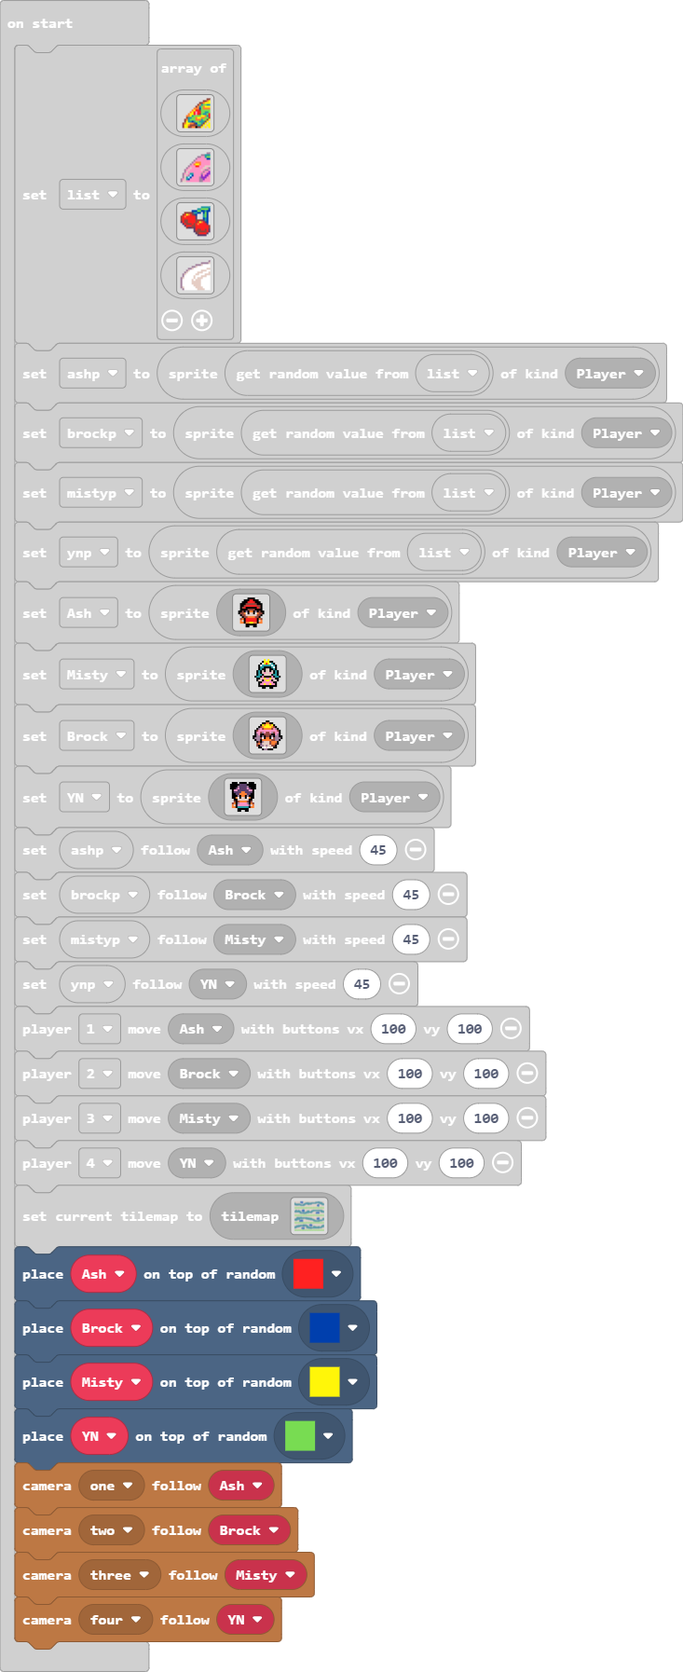
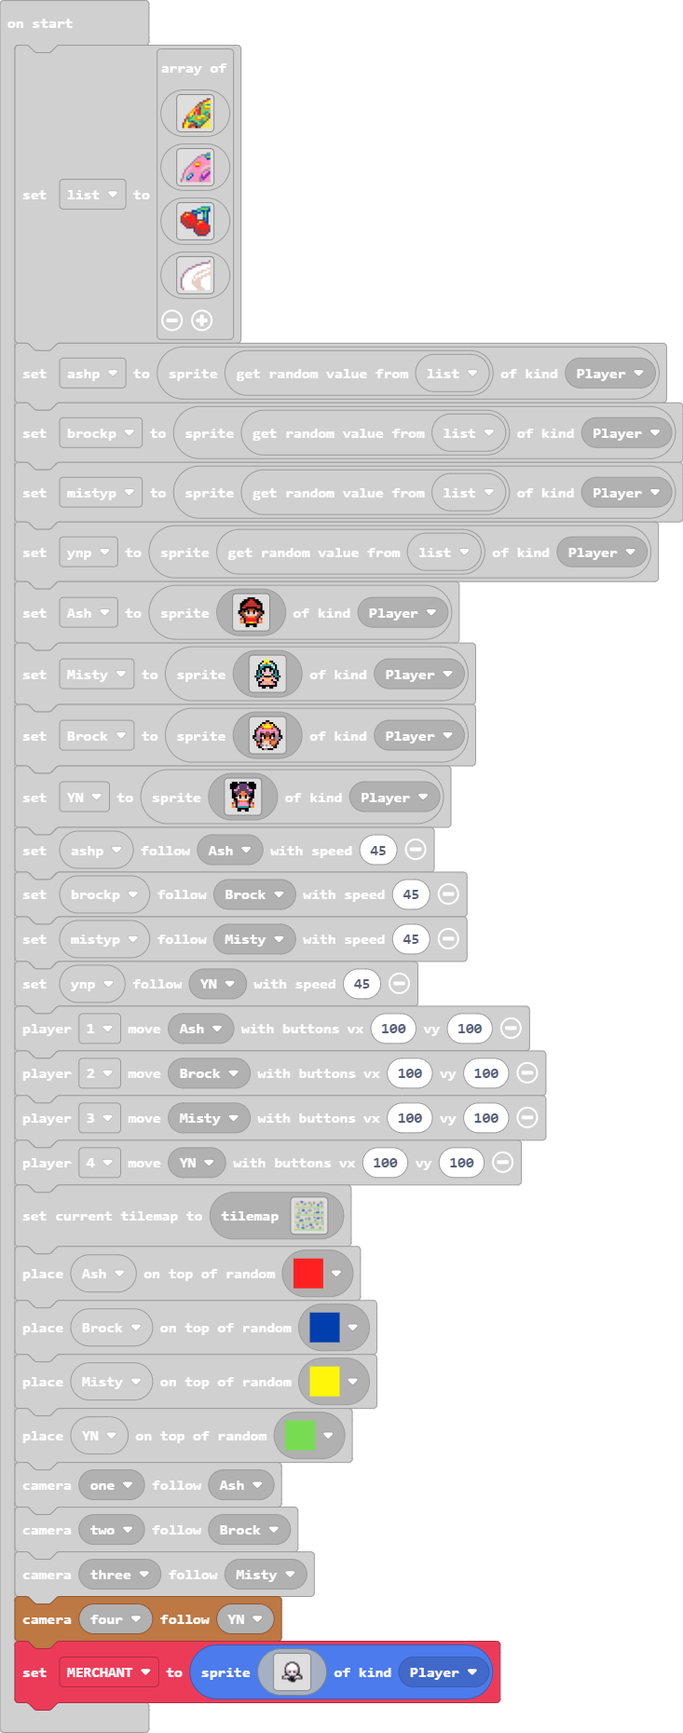
Update main.blocks, main.ts, tilemap.g.jres, tilemap.g.ts

Changed region(s): [[0.0, 0.0312, 1.0, 0.9989], [0.09, 0.0936, 0.1801, 0.1249], [0.03, 0.0936, 0.06, 0.1249]]

diff --git a/tilemap.g.ts b/tilemap.g.ts
@@ -14,6 +14,12 @@ namespace myTiles {
     export const tile5 = image.ofBuffer(hex``);
     //% fixedInstance jres blockIdentity=images._tile
     export const tile6 = image.ofBuffer(hex``);
+    //% fixedInstance jres blockIdentity=images._tile
+    export const tile7 = image.ofBuffer(hex``);
+    //% fixedInstance jres blockIdentity=images._tile
+    export const tile8 = image.ofBuffer(hex``);
+    //% fixedInstance jres blockIdentity=images._tile
+    export const tile9 = image.ofBuffer(hex``);
 
     helpers._registerFactory("tilemap", function(name: string) {
         switch(helpers.stringTrim(name)) {
@@ -264,8 +270,46 @@ namespace myTiles {
 . . . . . . . . . . . . . . . . 
 . . . . . . . . . . . . . . . . 
 `, [myTiles.transparency16], TileScale.Sixteen);
+            case "level15":
+            case "level15":return tiles.createTilemap(hex`1000100000000000000000000000000000000000000000000000000000000000000000000000000000000000000000000000000000000000000000000000000000000000000000000000000000000000000000000000000000000000000000000000000000000000000000000000000000000000000000000000000000000000000000000000000000000000000000000000000000000000000000000000000000000000000000000000000000000000000000000000000000000000000000000000000000000000000000000000000000000000000000000000000000000000000000000000000000000000000000000000000000000000000000000000000000000000`, img`
+. . . . . . . . . . . . . . . . 
+. . . . . . . . . . . . . . . . 
+. . . . . . . . . . . . . . . . 
+. . . . . . . . . . . . . . . . 
+. . . . . . . . . . . . . . . . 
+. . . . . . . . . . . . . . . . 
+. . . . . . . . . . . . . . . . 
+. . . . . . . . . . . . . . . . 
+. . . . . . . . . . . . . . . . 
+. . . . . . . . . . . . . . . . 
+. . . . . . . . . . . . . . . . 
+. . . . . . . . . . . . . . . . 
+. . . . . . . . . . . . . . . . 
+. . . . . . . . . . . . . . . . 
+. . . . . . . . . . . . . . . . 
+. . . . . . . . . . . . . . . . 
+`, [myTiles.transparency16], TileScale.Sixteen);
+            case "level":
+            case "level16":return tiles.createTilemap(hex`1000100000000000000000000000000000000000000000000000000000000000000000000000000000000000000000000000000000000000000000000000000000000000000000000000000000000000000000000000000000000000000000000000000000000000000000000000000000000000000000000000000000000000000000000000000000000000000000000000000000000000000000000000000000000000000000000000000000000000000000000000000000000000000000000000000000000000000000000000000000000000000000000000000000000000000000000000000000000000000000000000000000000000000000000000000000000000`, img`
+. . . . . . . . . . . . . . . . 
+. . . . . . . . . . . . . . . . 
+. . . . . . . . . . . . . . . . 
+. . . . . . . . . . . . . . . . 
+. . . . . . . . . . . . . . . . 
+. . . . . . . . . . . . . . . . 
+. . . . . . . . . . . . . . . . 
+. . . . . . . . . . . . . . . . 
+. . . . . . . . . . . . . . . . 
+. . . . . . . . . . . . . . . . 
+. . . . . . . . . . . . . . . . 
+. . . . . . . . . . . . . . . . 
+. . . . . . . . . . . . . . . . 
+. . . . . . . . . . . . . . . . 
+. . . . . . . . . . . . . . . . 
+. . . . . . . . . . . . . . . . 
+`, [myTiles.transparency16], TileScale.Sixteen);
             case "level1":
-            case "level1":return tiles.createTilemap(hex`6400640001010101010101010101010101010101010101010101010101010101010101010101010101010101010101010101010101010101010101010101010101010101010101010101010101010101010101010101010101010101010101010101010101010101010101010101010101010101010101010101010104040404040404040404010101010101010101010101010101010101010101010101010101010101010101010101010101010101010101010101050505050505050101010101010101010101010101010101010101010101010101010101010101010101040404040404040404040101010101010101010101010101010101010101010101010101010101010101010101010101010101050505050505050505050505050505050501010101010101010101010101010101010101010101010101010101010101010404040404040404040401010101010101010101010101010101010101010101010101010101010101010101010101010101050505050505050505050505050505050505050505050505010101010101010101010101010101010101010101010101010104040404040404040404010101010101010101010505050505050505050101010101010101050505050505050505050505050505050505050505050505050505050505050505050505050501010101010505050505010101010101010101010101010101040404040404040404040101010101010105050505050505050505050505050505050505050505050505050505050505050505050505050505050505050505050505050505050505050505010101010105050505050101010101010101010101010101010101010104040404040101010101010505050505050505050505050505050505050505050505050505050505050505050505050505050505050505050505050505050505050505050505050501010101050505050501010101010101010101010101010101010101040404040401010101010505050505050505050505050505050505050505050505050505050505050505050505050505050505010101010101010105050505050505050505050505050505010505050505010505050505050505050505050501010101010101010101010101050505050505050505050505050505050505050505050505050505050505050505050505050505050505010101010101010101010505050505050505050505050505050505050505050505050505050505050505050505050505010101010101010105050505050505050505050505050505050505050505050505050505050505010101010101010101010101010101010101010101010101050505050505050505050505050505060505050505050505050505050505050505050505050505010101010101050505050505050505050505050505050505050505050505050505050501010101010101010101010101010101010101010404040404010101010505050505050505050505050505050505050505050505050505050505050505050505050505050505050505050505050505050101010105050505050505050505050505050501010101010101010101010101010101010101010104040404040101010101010101050505050505050505050505050505050505050505050505050505050505050505050505050505050505050505050101010101010105050505050501010101010101010101010101010101010101010101010101040404040404040401010101010101010505050505050505050505050505050505050505050505050505050505050505050505050505050505050505050101010101010101010101010101010101010101010101010101010101010101010101010101010404040404040404010101010101010101050505050505050101010101010505050505050505050101010505050505050505050505050505050505010101010101010101010101010101010101010101010101010101010101010101010101010101010104040404040404040101010101010101010101010101010101010101010101010101010101010101010101010505050505050505050505050505010101010101010101010101010101010101010101010101010101010101010101010101010101010101040404040404040401010101010101010101010101010101010101010101010101010101010101010101010101010101010101010101010101010101010101010101010101010101010101010101010101010101010101010101010101010101010101010404040404040404010101010101010101010101010101010101010101010101010101010101010101010101010101010101010101010101010101010101010101010101010101010101010101010101010101010101010101010101010101010101010101010104040404040101010101010101010101010101010101010101010101010101010101010101010101010101010101010101010101010101010101010101010101010101010101010101010101010101010101010101010101010101010101010101010101010101010101010101010101010101010101010101010101010102020202020202020202020202020101010101010101010101010101010101010101010101010101010101010101010101010101010101010101010101010101010101010101010101010101010101010101010101010101010101010101010303030303030303030303030303030303030303030303030303030303030303030303030303030303030303030303030303030303030303030303030303030303030303030303030303030303030303030303030303030303030303030303030303030303030303030303030303030303030303030303030303030303030303030303030303030303030303030303030303030303030303030303030303030303030303030303030303030303030303030303030303030303030303030303030303030303030303030303030303030303030303030303030303030303030303030303030303030303030303030303030303030303030303030303030303030303030303030303030303030303030303030303030303030303030303030303030303030303030303030303030303030303030303030303030303030303030303030303030303030303030303030303030303030303030303030303030303030303030303030303030303030303030303030303030303030303030303030303030303030303030303030303030303030303030303030303030303030303030303030303030303030303030303030303030303030303030303030303030303030303030303030303030303030303030303030303030303030303030303030303030303030303030303030303030303030303030303010101010101010101010101010101010101010101010101010101010101010101010101010101010101010101010101010101010101010101010101010101010101010101010101010101010101010101010101010101010101010101010101010101010101010101010101010101010101010101010101010101010101010101010101010101010101010101010101010101010101010101010101010101010101010101010101010101010101010101010101010101010101010101010101010101010101010101010101010101010101010101010101010101010101010101010101010101010101010101010101010101010101010101010101010101010101010101010101010101010101010101010101010101010101010101010101010101010101010101010101010101010101010101010101010101010101010101010101010101010404040404040101010101010101010101010101010101010101010101010101010101010101010101010101010101010101010101010101010101010101010101010101010101010101010105050505050101010101010101010101010101010101040404040404040401010101010101010101010101010101010101010101010101010101010505050505050505050505050505050505050505050505050505050505050501010101010101010101050505050501010105050505050101010101010101040404040404040404040101010101010101010101010101010101010101010101010505050505050505050505050505050505050505050505050505050505050505050505010101010101010101010505050505010105050505050505050501010101010404040404040404040401010101010101010505050505050505010101010101010505050505050505050505050505050505050505050505050505050505050505050505050505050101010505050505050505050505050505050505050505050101010104040404040404040404010101010101010105050505050505050101010101010505050505050505050505050505050505050505050505050505050505050505050505050505050505050105050505050505050505050505050505050505050505010101040404040404040404040101010101010105050505050505050501010101010505050505050505050505050505050505050505050505050505050505050505050505050505050505050505050505050505050505050505050505050505050505050101010404040404040404040401010101010101050505050505050505050505050505050505050505050505050101010101010101010101010101010101010101010505050505050505050505050705050505050505050505050505050505050505050505010101010104040404040401010101050505050505050505050505050505050505050505050505050101010101010101010101010101010101010101010101010105050505050505050505050505050505050505050505050505050505050505050505050501010101010101010101010101050505050505050505050505050505050505050505050505050101010101010101010101010104040404040404040404010101050505050505050505050505010505050505050505050505050505050505050505050505050505050505050505050505050505050505050505050505050505050505050505050505050101010101010101010101040404040404040404040404040101010105050505050505050505050101010101010101010101010101010101050505050505050505050505050505050505050505050505050505050505050505050505050505050505050501010101010101010101010404040404040404040404040401010101010101010105050505050501010101010101010101010101010101010105050505050505050505050505050505050505050505050505050505050505050501050505050505050505010101010101010101010104040404040404040404040404010101010101010101010101010101010101010101010101010101010101010101050505050505050505050505050505050505050505050505050505050505010101010101010101010101010101010101010101010101040404040404040404040404040101010101010101010101010101010101010101010101010101010101010101010101050505050505050505050505050505050505050505050101010101010101010101010101010101010101010101010101010101010404040404040404040404040101010101010101010101010101010101010101010101010101010101010101010101010101010101010101010101050505050505050505010101010101010101010101010101010101010101010101010101010101010101010101010101010101010101010101010101010101010101010101010101010101010101010101010101010101010101010101010101010101010101010101010101010101010101010101010101010101010101010101010101010101010101010101010101010101010101010101010101010101010101010101010101010101010101010101010101010101010101010101010101010101010101010101010101010101010101010101010101010101010101010101010101010101010101010101010101010101010101010101010101010101010101010101010101010101010103030303030303030303030303030303030303030303030303030303030303030303030303030303030303030303030303030303030303030303030303030303030303030303030303030303030303030303030303030303030303030303030303030303030303030303030303030303030303030303030303030303030303030303030303030303030303030303030303030303030303030303030303030303030303030303030303030303030303030303030303030303030303030303030303030303030303030303030303030303030303030303030303030303030303030303030303030303030303030303030303030303030303030303030303030303030303030303030303030303030303030303030303030303030303030303030303030303030303030303030303030303030303030303030303030303030303030303030303030303030303030303030303030303030303030303030303030303030303030303030303030303030303030303030303030303030303030303030303030303030303030303030303030303030303030303030303030303030303030303030303030303030303030303030303030303030303030303030303030303030303030303030303030303030303030303030303030303030303030303030303030303030303030303030303030303030303030101010101010101010101010101010101010101010101010101010101010101010101010101010101010101010101010101010101010101010101010101010101010101010101010101010101010101010101010101010101010101010101010101010101010101010101010101010101010101010101010101010101010101010101010101010101010101010101010101010101010101010101010101010101010101010101010101010101010101010101010101010101010101010101010101010101010101010101010101010101010101010101010101010101010101010101010101010101010101010101010101010101010101010101010101010101010101010101010101010101010101010101010101010101010101010101010101010101010101010101010101010101010101010505050505050101010505050505050505010101010101010101010101010101010101010101010101010101010101010101010101010101010101010101010101010101010101010101010101010101010101010101010101010101010101010101010505050505050505050505050505050505050505050505050505050505050505050505050501010101010101010101010101010101010101010101010101010101010101010101010101010101010101010101010101010101010101010101010101010105050505050505050505050505050505050505050505050505050505050505050505050505050505050505050101010101010101010101010101010101010101010101010101040404040404040101010101010101010101010101010101010101010105050505050505050505050505050505050505050505050505050505050505050505050505050505050505050505050505050505010101010101010101010101010101010404040404040404040401010101010101010101010505050501010101010105050505050505050505050505050505050505050505050505050505050505050505050505050505050505050505050505050505050101010101010101010101010101010104040404040404040404010101010101010101010505050505010101050505050505050505050505050505050505050505050505050505050505050505050505050505050505050505050505050505050505050505050501010101010101010101010101040404040404040404040101010101010101010505050505050505050505050505050505050505050505050505010505050505050505050505010101050505050505050505050505050505050505050505050505050505050505010101010101010101010404040404040404040401010101010101010105050505050505050505050505050505050505050505050505050101010101010101010101010101010101010101050505050505050505050505050505050505050505050505050505050101010101010104040404040404040404010101010101010101050505050505080505050505050505050505050505050505050501010101010101010101010101010101010101010505050505050505050505050505050505050505050505050505050501010101010101040404040404040401010101010101010101010505050505050505050505050505050505050505050505050505010104040404040401010101010101010101010101010101010101050505050505050505050505050505050505050505050501010101010101010101010101010505050505050505050505050505050505050505050505050505050505010101010101010404040404040404040401010101010101010101010101010101010101010101010505050505050505050505050505050505050505010101010101010505050505050505050505050505050505050505050505050505050505050101010101010104040404040404040404040404010101010101010101010101010101010101010101010101010101010101050505050505050505050505050505050505050505050505050505050505050505050505050505050101050505050505050501010101010101040404040404040404040404040101010101010101010101010101010101010101010101010101010101010101010505050505050505050505050505050505050505050505050505050505050505010101010101010101010101010101010101010101010404040404040404040404040401010101010101010101010101010101010101010101010101010101010101010105050505050505050505050505050505050505050505050505050505050505050101010101010101010101010101010101010101010104040404040404040404040404010101010101010101010101010101010101010101010101010101010101010101010105050505050505050505050505050505050505050505050501010101010101010101010101010101010101010101010101010101040404040404040404040404040101010101010101010101010101010101010101010101010101010101010101010101010101050505050505050505050505050505050501010101010101010101010101010101010101010101010101010101010101010101010101010101010101010101010101010101010101010101010101010101010101010101010101010101010101010101010101010101010101010101010101010101010101010101010101010101010101030303030303030303030303030303030303030303030303030303030303030303030303030303030303030303030303030303030303030303030303030303030303030303030303030303030303030303030303030303030303030303030303030303030303030303030303030303030303030303030303030303030303030303030303030303030303030303030303030303030303030303030303030303030303030303030303030303030303030303030303030303030303030303030303030303030303030303030303030303030303030303030303030303030303030303030303030303030303030303030303030303030303030303030303030303030303030303030303030303030303030303030303030303030303030303030303030303030303030303030303030303030303030303030303030303030303030303030303030303030303030303030303030303030303030303030303030303030303030303030303030303030303030303030303030303030303030303030303030303030303030303030303030303030303030303030303030303030303030303030303030303030303030303030303030303030303030303030303030303030303030303030303030303030303030303030303030303030303030303030303030303030303030303030303030303030303030301010101010101010101010101010101010101010101010101010101010101010101010101010101010101010101010101010101010101010101010101010101010101010101010101010101010101010101010101010101010101010101010101010101010101010101010101010101010101010101010101010101010101010101010101010101010101010101010101010101010101010101010101010101010101010101010101010101010101010101010101010101010101010101010101010101010101010101010101010101010101010101010101010101010101010101010101010101010101010101010101010101010101010101010101040404040401010101010101010101010101010101010101010101010101010101010101010101010101010101010101010101010101010101010101010101010101010101010101010101010505050505050505050505010101010101010101010404040404040404040404010101010101010101010101010101010101010101010101010101010101010101010101010101010101010101010101010101010101010101010105050505050505050505050505050505050505050505050101010101010104040404040404040404040101010101010101010101010101010101010101010101010101010101010101010105050505050101010101010101010101010105050505050505050505050505050505050505050505050505050505050505010101010101040404040404040404040401010101010101010101010101010101010101010101010101010101010101010105050505050501010101010101050505050505050505050505050505050505050505050505050505050505050505050505050505010101010404040404040404040404010101010101010101010101010101010101010101010101010101010101010505050505050505010101010101050505050505050505050505050505050505050505050505050505050505050505050505050505050101010104040404040404040404040101010101010101010101010101010101010101010101010101010101010505050505050505050101010101010505050505050505050505050505050505050505050505050505050505050505050505050505050505010101010101040404040404040401010105050505050101010101010101010101010101010101010101010105050505050505050505050505050505050505050505050505050505050505050505010105050505050505050505050105050505050505050505010101010101010101010101010105050505050505050505010101010101010505050505010101010101050505050505050505050505050505050505050505050505050505050505050101010101050505050505050505010101010505050505050505050505050501010101010101010101050505050505050505050505050505050505050505050101010505050505050505050505050505050505050505050505050505050505050505010101010101010101010101010101010101010105050505050505050505050505050505050505010101010505050505050505050505050505050505050505050505050505050505050505050505050509050505050505050505050505050505050101010101010101010101010101010101010101010101050505050505050505050505050505050505050505050505050505050505050505050505050505050505050505050505050505050505050505050505050505050505050505050501010101010101010101010101040404040404040404040401010101010505050505050505050505050505050505050505050505050505050505050505050505050505050505050505050505050505050505050501010101010505050505050505050501010101010101010101010101010404040404040404040404010101010105050505050505050505050505050505050505050505050505050505050505050505050505050505050505050505050505050505050501010101010105050505050101010101010101010101010101010101010104040404040404040404040101010101050505050505050505050505050505050505050505050505050505050505050505050505050505050505050505050505050505050101010101010101050505050501010101010101010101010101010101010101040404040404040404040401010101010101010105050505050505050505050505050505050505050505050505050505050505050505050505050505050101010101010101010101010101010101010101010101010101010101010101010101010101010404040404040404040404010101010101010101010101010105050505050505050505010101010101010101010101010101010101010101010101010101010101010101010101010101010101010101010101010101010101010101010101010101010101010104040404040404010101010101010101010101010101010101010101010101010101010101010101010101010101010101010101010101010101010101010101010101010101010101010101010101010101010101010101010101010101010101010101010101010101010101010101010101010101010101010101010101010101010101010101010101010101010101010101010101010101010101010101010101010101010101010101010303030303030303030303030303030303030303030303030303030303030303030303030303030303030303030303030303030303030303030303030303030303030303030303030303030303030303030303030303030303030303030303030303030303030303030303030303030303030303030303030303030303030303030303030303030303030303030303030303030303030303030303030303030303030303030303030303030303030303030303030303030303030303030303030303030303030303030303030303030303030303030303030303030303030303030303030303030303030303030303030303030303030303030303030303030303030303030303030303030303030303030303030303030303030303030303030303030303030303030303030303030303030303030303030303030303030303030303030303030303030303030303030303030303030303030303030303030303030303030303030303030303030303030303030303030303030303030303030303030303030303030303030303030303030303030303030303030303030303030303030303030303030303030303030303030303030303030303030303030303030303030303030303030303030303030303030303030303030303030303030303030303030303030303030303030303030303`, img`
+            case "level1":return tiles.createTilemap(hex`6400640001010101010101010101010101010101010101010101010101010101010101010101010101010101010101010101010101010101010101010101010101010101010101010101010101010101010101010101010101010101010101010101010101010101010101010101010101010101010101010101010104040404040404040404010101010101010101010101010101010101010101010101010101010101010101010101010101010101010101010101010101010101010101010101010101010101010101010101010101010101010101010101010101010101040404040404040404040101010101010101010101010101010101010101010101010101010101010101010101010101010101010101010101010101010101010101090909090909010101010101010101010101010101010101010101010101010101010404040404040404040401010101010101010101010101010101010101010101010101010101010101010101090909090901010101010101010101010101010101010909090909090909090101010101010101010101010101010101010101010101010104040404040404040404010101010101010101010101010101010101010909090909090101010101010101090909090909010101010101010101010101010101010109090909090909090909010101010101010101010101010101010101010101010101040404040404040404040101010101010101010101010101010101090909090909090901010101010101010909090909090901010101010101010101010101010101090909090909090909090101010101010101010101010101010101010101010101010101010104040404040101010101010101010101010101010101010909090909090909090101010101010109090909090909010101010101010101010101010101010909090909090909090901010101010101010101010101010101010101010101010101010101040404040401010101010101090909090901010101010109090909090909090901010101010101090909090909090101010101010101010101010101010109090909090909090909010101010101010101010109090909090101010101010101010101010101010101010101010909090909090909010101010101090909090909090909010101010101010909090909090901010101010101010101010101010101090909090909090909090101010101010101010101090909090901010101010101010101010101010101010101010109090909090909090101010101010909090909090909090101010101010109090909090909010101010101010101010101010101010109090909090909090901010101050101010101010909090909090909090101010101010101010101010101010909090909090909090901010101010101090909090909090901010101010101090909090909090101010101010101010404040404010101090909090901010101010101010101010101010109090909090909090901010101010101010101010101010109090909090909090909010101010101010101010101010101010101010101010909090909090101010101010101010104040404040101010101010101010101010101010101010101010101090909090909090909010101010101010101010101010101090909090909090909010101010101010101010101010101090909090901010101010101010101010101010101040404040404040401010101010101010101010101010101010101010101010101010109090909090101010101010101010101010101010909090909090909090101010101010101010101010101010909090909090101010101010101010101010101010404040404040404010101010101010101010101010101010101010101010101010101090909090901010101010101010101010101010109090909090909090901010101010101010101010101010109090909090901010101010101010101010101010104040404040404040101010101010909090909090101010101010101010101010101010101010101010101010101010101010101010101010101010101010101010101010101010101010101010101090909090909010101010101010101010101010101040404040404040401010101010109090909090901010101010101010101010101010101010101010101010101010101010101010101010101010101010101010101010101010101010101010101010909090909090101010101010101010101010101010404040404040404010101010101090909090909010101010101010101010101010101010101010101010101010101010101010101010101010101010101010101010101010101010101010101010109090909090901010101010101010101010101010101010104040404040101010101010909090909090101010101010101010101010101010101010101010101010101010101010101010101010101010101010101010101010101010101010101010101010101010101010101010101010101010101010101010101010101010101010101010109090909090901010101010101010102020202020202020202020202020101010101010101010101010101010101010101010101010101010101010101010101010101010101010101010101010101010101010101010101010101010101010101010101010101010101010101010303030303030303030303030303030303030303030303030303030303030303030303030303030303030303030303030303030303030303030303030303030303030303030303030303030303030303030303030303030303030303030303030303030303030303030303030303030303030303030303030303030303030303030303030303030303030303030303030303030303030303030303030303030303030303030303030303030303030303030303030303030303030303030303030303030303030303030303030303030303030303030303030303030303030303030303030303030303030303030303030303030303030303030303030303030303030303030303030303030303030303030303030303030303030303030303030303030303030303030303030303030303030303030303030303030303030303030303030303030303030303030303030303030303030303030303030303030303030303030303030303030303030303030303030303030303030303030303030303030303030303030303030303030303030303030303030303030303030303030303030303030303030303030303030303030303030303030303030303030303030303030303030303030303030303030303030303030303030303030303030303030303030303030303030303030303030303010101010101010101010101010101010101010101010101010101010101010101010101010101010101010101010101010101010101010101010101010101010101010101010101010101010101010101010101010101010101010101010101010101010101010101010101010101010101010101010101010101010101010101010101010101010101010101010101010101010101010101010101010101010101010101010109090909090101010101010101010101010101010101010101010101010101010101010101010101010101010101010101010101010101010101010101010101010101010101010101010101010101010101010101010101010101010101010101010101090909090901010101010109090909090101010101010101010101010101010101010101010101010101010101010109090909090101010101010101010404040404040101010101010101010101010101010109090909090101010101010101010101010909090909010101010101090909090901010101010101010101010101010101010101010101010101010101010101090909090901010101010101040404040404040401010101010101010101010101010101090909090901010101010101010101010109090909090101010101010909090909010101010101010101010101010101010101010101010101010101010101010909090909010101010101040404040404040404040101010101010101010101090909090909090909090909090101010101010101090909090901010101010109090909090101010101010101010101010101010101010101010101010101010101010109090909090101010101010404040404040404040401010101010101010101010909090909090909090909090901010101010101010101010101010101010101090909090901010101010101010101010101010101010101010101010101010101010101090909090901010101010104040404040404040404010101010101010101010109090909090909090909090909010101010101010101010101010101010101010101010101010101010101010101010101010101010101010101010101010101010101010101010101010101010101040404040404040404040101010101010101010101090909090909090909090909090101010101010101010101010101010101010101010101010101010101010101010101010101010101010101010101010101010101010101010101010101010101010404040404040404040401010101010101010101010909090909090909090909090901010101010101010101010101010101010101010101010101010101010101010101010101010101010601010101010101010101010101010101010101010101010101010104040404040401010101010101010101010101010101090909090901010101010101010101010101010101010101010101010101010101010101010101010101010101010101010101010101010101010101010101010101010101010101010101010101010101010101010101010909090909010101010101010909090909010101010101010101010101010101010101010104040404040404040404010101010101090909090901010101010101010101010101010101010101010101010101010101010101010101010101010101010109090909090101010101010101010101010101010101010101010101010101010101040404040404040404040404040101010101010909090909090901010101010101010101010101090909090909090909090901010101010101010101010101090909090909090909090901010101010101010101010101010101010101090909090901010404040404040404040404040401010101090909090909090909010101010101010101010101010909090909090909090909010101010101010101010101010909090909090909090909010101010101010101010101010101010101010909090909010104040404040404040404040404010101010909090909090909090101010101010101010101010109090909090909090909090101010101010101010101010109090909090909090909090101010101010101010101010101010101010109090909090101040404040404040404040404040101010109090909090909090901010101010101010101010101090909090909090909090901010101010101010101010101090909090909090909090901010101010101010101010101010101010101090909090901010404040404040404040404040101010101090909090909090909010101010101010101010101010909090909090909090909010101010101010101010101010909090909090909090909010101010101010101010101010101010101010909090909010101010101010101010101010101010101010909090909090901010101010101010101010101010101010101010101010101010101010101010101010101010101010101010101010101010101010101010101010101010101010101010101010101010101010101010101010101010101010101010101010101010101010101010101010101010101010101010101010101010101010101010101010101010101010101010101010101010101010101010101010101010101010101010101010101010101010101010101010101010101010101010101010101010101010101010101010103030303030303030303030303030303030303030303030303030303030303030303030303030303030303030303030303030303030303030303030303030303030303030303030303030303030303030303030303030303030303030303030303030303030303030303030303030303030303030303030303030303030303030303030303030303030303030303030303030303030303030303030303030303030303030303030303030303030303030303030303030303030303030303030303030303030303030303030303030303030303030303030303030303030303030303030303030303030303030303030303030303030303030303030303030303030303030303030303030303030303030303030303030303030303030303030303030303030303030303030303030303030303030303030303030303030303030303030303030303030303030303030303030303030303030303030303030303030303030303030303030303030303030303030303030303030303030303030303030303030303030303030303030303030303030303030303030303030303030303030303030303030303030303030303030303030303030303030303030303030303030303030303030303030303030303030303030303030303030303030303030303030303030303030303030303030303030101010101010101010101010101010101010101010101010101010101010101010101010101010101010101010101010101010101010101010101010101010101010101010101010101010101010101010101010101010101010101010101010101010101010101010101010109090909090101010101010101010101010101010101010101010101010101010101010101010101010101010101010101010101010101010101010101010101010101010101010101010101010101010101010101010101010101010101010101010101090909090909090909090101010101010101010101010101010101010101010101010101010101010101010101010101010101010101010101010101010101010101010101010101010101010101010101010101010101010101010101010101090909090909090909090909090901010101010101010101010101010101010101010101010101010101010101010101010101010101010101010109090909090909090101010101010101010101010101010101010101010101010101010101010101010909090909090909090909090909010101010101010101010101010101010101010101010101010101010101010101010101010101010101010101090909090909090901010101010101010101010101010101090909090909090901010101010101010109090909090909090909090909090101010101010101010101010101010101010101010101010101010909090909090909090101010101010101010909090909090909010101010101040404040404040101010909090909090909010101010101010101090909090909090909090909090901010101010101010101010101010101010101010101010101010109090909090909090901010101010101010109090909090909090101010404040404040404040401010109090909090909090101010101010101010909090909090909090909090909010101010101010101010101010101010101010101010101010101090909090909090909010101010101010101090909090909090901010104040404040404040404010101090909090909090901010101010101010101010101010109090909090909010101010101010101010101010101010101090909090909090901010909090909090909090101010101010101010909090909090909010101040404040404040404040101010909090909090909010101010101010101010101010101010101010101010101010101010101010101010101010101010909090909090909010109090909090909090901010101010101010101010101010101010101010404040404040404040401010109090909090909090101010101010101010101010101010101010101010101010101010101010101010101010101010109090909090909090101090909090909090909010101010101010101010101010101010101010104040404040404040404010101010909090909090101010101070101010101010101010101010101010101010101010101010101010101010101010101090909090909090901010909090909090909090101010101010101010101010101010101010101040404040404040401010101010101010101010101010101010101010101010101010101010101010101010101010104040404040401010101010101010909090909090909010109090909090909090901010101010101010101010101010101010101010101010101010101010101010101010101010101010101010101010101010101010101010101010101010101010404040404040404040401010101010101090909090909090101090909090909090909010101010101010101010101090909090909090101010101010101010101010101010101010101010101010101010101010101010101010101010101010104040404040404040404040404010101010101010101010101010101010909090909090909090101010101010101010101010909090909090901010101010101010101010101010101010109090909090101010101010101010101010101010101010101040404040404040404040404040101010101010101010101010101010109090909090909090901010101010101010101010109090909090909010101010101010101010101010101010101090909090901010101010101010101010101010101010101010404040404040404040404040401010101010101010101010101010101010101010101010101010101010101010101010101090909090909090101010101010101010101010101010101010909090909010101010101010101010101010101010101010104040404040404040404040404010101010101010101010101010101010101010101010101010101010101010101010101010909090909090901010101010101010101010101010101010109090909090101010101010101010101010101010101010101040404040404040404040404040101010101010101010101010101010101010101010101010101010101010101010101010101090909090909010101010101010101010101010101010101090909090901010101010101010101010101010101010101010101010101010101010101010101010101010101010101010101010101010101010101010101010101010101010101010101010101010101010101010101010101010101010101010101010101010101010101030303030303030303030303030303030303030303030303030303030303030303030303030303030303030303030303030303030303030303030303030303030303030303030303030303030303030303030303030303030303030303030303030303030303030303030303030303030303030303030303030303030303030303030303030303030303030303030303030303030303030303030303030303030303030303030303030303030303030303030303030303030303030303030303030303030303030303030303030303030303030303030303030303030303030303030303030303030303030303030303030303030303030303030303030303030303030303030303030303030303030303030303030303030303030303030303030303030303030303030303030303030303030303030303030303030303030303030303030303030303030303030303030303030303030303030303030303030303030303030303030303030303030303030303030303030303030303030303030303030303030303030303030303030303030303030303030303030303030303030303030303030303030303030303030303030303030303030303030303030303030303030303030303030303030303030303030303030303030303030303030303030303030303030303030303030303030301010101010101010101010101010101010101010101010101010101010101010101010101010101010101010101010101010101010101010101010101010101010101010101010101010109090909090901010101010101010101010101010101010101010101010101010101010101010101010101010101010101010101010101010101010101010101010101010101010101010101010101010101010101010101010101010101010101010909090909090909010101010101010101010101090909090901010101010101010101010109090909090101010101010101010101010101010101010101010101010101010101010101010101010101040404040401010101010101010101010101010909090909090909090101010101010101010101010909090909010101010101010101010101090909090909010101010101010101010101010909090909010101010101010101010101010101010404040404040404040404010101010101010101010109090909090909090901010101010101010101010109090909090101010101010101010909090909090909090101010101010101010109090909090909090101010101010101010101010101010104040404040404040404040101010101010101010101090909090909090909010101010101010101010101090909090901010101010101010109090909090909090909090101010101010101090909090909090901010101010101010101010101010101040404040404040404040401010101010101010101010909090909090909090101010101010101010101010909090909010101010101010101090909090909090909090901010101010101010909090909090909010101010101010101010101010101010404040404040404040404010101010101010101010109090909090909090101010101010101010101010101010101010101010101010101010909090909090909090909010101010101010109090909090909090101010101090909090909090901010104040404040404040404040101010101010101010101010101010101010101010101010101010101010101010101010101010101010101010109090909090909090909090101010101010101090909090909090901010101010909090909090909010101010101040404040404040401010101010101010101010101010101010101010101010101010101010101010101010101010101010101010101090909090909090909090901010101010101010909090909090901010101010109090909090909090101010101010101010101010101010101010101010101010101010101010101010101010101010101010101010101010101010101010101010101010101010101010101010101010101010101010101010101010101010101010101090909090909090901010101010101010101010101010101010101010101010101010101010101010101010101010101010101010101010101010101010101010101010101010101010101010101010101010101010101010101010101010101010101010909090909090909010101010101010101010101090909090909010101010101010101010101010101010101010101010101010101010101010101010108010101010101010101010909090909090101010101010101010101010101010101010101010109090909090909090101010101010101010101090909090909090909010101010101010101010101010101010101010101010101010101010101010101010101010101010101010109090909090901010101010101040404040404040404040401010101090909090909010101010101010101010909090909090909090909090101010101010101010101010101010109090909090909090101010101010101010101010101010101010101090909090909010101010101010404040404040404040404010101010101010101010101010101010101010109090909090909090909090901010101010101010101010101010101090909090909090901010101010101010101010101010101010101010909090909090101010101010104040404040404040404040101010101010101010101010101010101010101090909090909090909090909010101010101010101010101010101010909090909090909010101010101010101010101010101010101010109090909090901010101010101040404040404040404040401010101010101010101010101010101010101010909090909090909090909090101010101010101010101010101010109090909090909090101010101010101010101010101010101010101010101010101010101010101010404040404040404040404010101010101010101010101010101010101010109090909090909090909090901010101010101010101010101010101090909090909090901010101010101010101010101010101010101010101010101010101010101010101010104040404040404010101010101010101010101010101010101010101010101010101010101010101010101010101010101010101010101010909090909090909010101010101010101010101010101010101010101010101010101010101010101010101010101010101010101010101010101010101010101010101010101010101010101010101010101010101010101010101010101010101010101010101010101010101010101010101010303030303030303030303030303030303030303030303030303030303030303030303030303030303030303030303030303030303030303030303030303030303030303030303030303030303030303030303030303030303030303030303030303030303030303030303030303030303030303030303030303030303030303030303030303030303030303030303030303030303030303030303030303030303030303030303030303030303030303030303030303030303030303030303030303030303030303030303030303030303030303030303030303030303030303030303030303030303030303030303030303030303030303030303030303030303030303030303030303030303030303030303030303030303030303030303030303030303030303030303030303030303030303030303030303030303030303030303030303030303030303030303030303030303030303030303030303030303030303030303030303030303030303030303030303030303030303030303030303030303030303030303030303030303030303030303030303030303030303030303030303030303030303030303030303030303030303030303030303030303030303030303030303030303030303030303030303030303030303030303030303030303030303030303030303030303030303`, img`
 ....................................................................................................
 ....................2222222222......................................................................
 ....................2222222222......................................................................
@@ -366,26 +410,7 @@ namespace myTiles {
 2222222222222222222222222222222222222222222222222222222222222222222222222222222222222222222222222222
 2222222222222222222222222222222222222222222222222222222222222222222222222222222222222222222222222222
 2222222222222222222222222222222222222222222222222222222222222222222222222222222222222222222222222222
-`, [myTiles.transparency16,sprites.castle.tilePath5,sprites.castle.tilePath8,sprites.castle.tileGrass2,myTiles.tile1,sprites.swamp.swampTile1,myTiles.tile3,myTiles.tile4,myTiles.tile5,myTiles.tile6], TileScale.Sixteen);
-            case "level15":
-            case "level15":return tiles.createTilemap(hex`1000100000000000000000000000000000000000000000000000000000000000000000000000000000000000000000000000000000000000000000000000000000000000000000000000000000000000000000000000000000000000000000000000000000000000000000000000000000000000000000000000000000000000000000000000000000000000000000000000000000000000000000000000000000000000000000000000000000000000000000000000000000000000000000000000000000000000000000000000000000000000000000000000000000000000000000000000000000000000000000000000000000000000000000000000000000000000`, img`
-. . . . . . . . . . . . . . . . 
-. . . . . . . . . . . . . . . . 
-. . . . . . . . . . . . . . . . 
-. . . . . . . . . . . . . . . . 
-. . . . . . . . . . . . . . . . 
-. . . . . . . . . . . . . . . . 
-. . . . . . . . . . . . . . . . 
-. . . . . . . . . . . . . . . . 
-. . . . . . . . . . . . . . . . 
-. . . . . . . . . . . . . . . . 
-. . . . . . . . . . . . . . . . 
-. . . . . . . . . . . . . . . . 
-. . . . . . . . . . . . . . . . 
-. . . . . . . . . . . . . . . . 
-. . . . . . . . . . . . . . . . 
-. . . . . . . . . . . . . . . . 
-`, [myTiles.transparency16], TileScale.Sixteen);
+`, [myTiles.transparency16,sprites.castle.tilePath5,sprites.castle.tilePath8,sprites.castle.tileGrass2,myTiles.tile1,myTiles.tile3,myTiles.tile4,myTiles.tile5,myTiles.tile6,myTiles.tile9], TileScale.Sixteen);
         }
         return null;
     })
@@ -405,6 +430,12 @@ namespace myTiles {
             case "tile5":return tile5;
             case "myTile4":
             case "tile6":return tile6;
+            case "myTile5":
+            case "tile7":return tile7;
+            case "myTile6":
+            case "tile8":return tile8;
+            case "myTile7":
+            case "tile9":return tile9;
         }
         return null;
     })

diff --git a/main.ts b/main.ts
@@ -353,3 +353,29 @@ splitScreen.cameraFollowSprite(splitScreen.Camera.Camera1, Ash)
 splitScreen.cameraFollowSprite(splitScreen.Camera.Camera2, Brock)
 splitScreen.cameraFollowSprite(splitScreen.Camera.Camera3, Misty)
 splitScreen.cameraFollowSprite(splitScreen.Camera.Camera4, YN)
+let MERCHANT = sprites.create(img`
+    ........................
+    ........................
+    ........................
+    ........................
+    ..........ffff..........
+    ........ff1111ff........
+    .......fb111111bf.......
+    .......f11111111f.......
+    ......fd11111111df......
+    ......fd11111111df......
+    ......fddd1111dddf......
+    ......fbdbfddfbdbf......
+    ......fcdcf11fcdcf......
+    .......fb111111bf.......
+    ......fffcdb1bdffff.....
+    ....fc111cbfbfc111cf....
+    ....f1b1b1ffff1b1b1f....
+    ....fbfbffffffbfbfbf....
+    .........ffffff.........
+    ...........fff..........
+    ........................
+    ........................
+    ........................
+    ........................
+    `, SpriteKind.Player)
